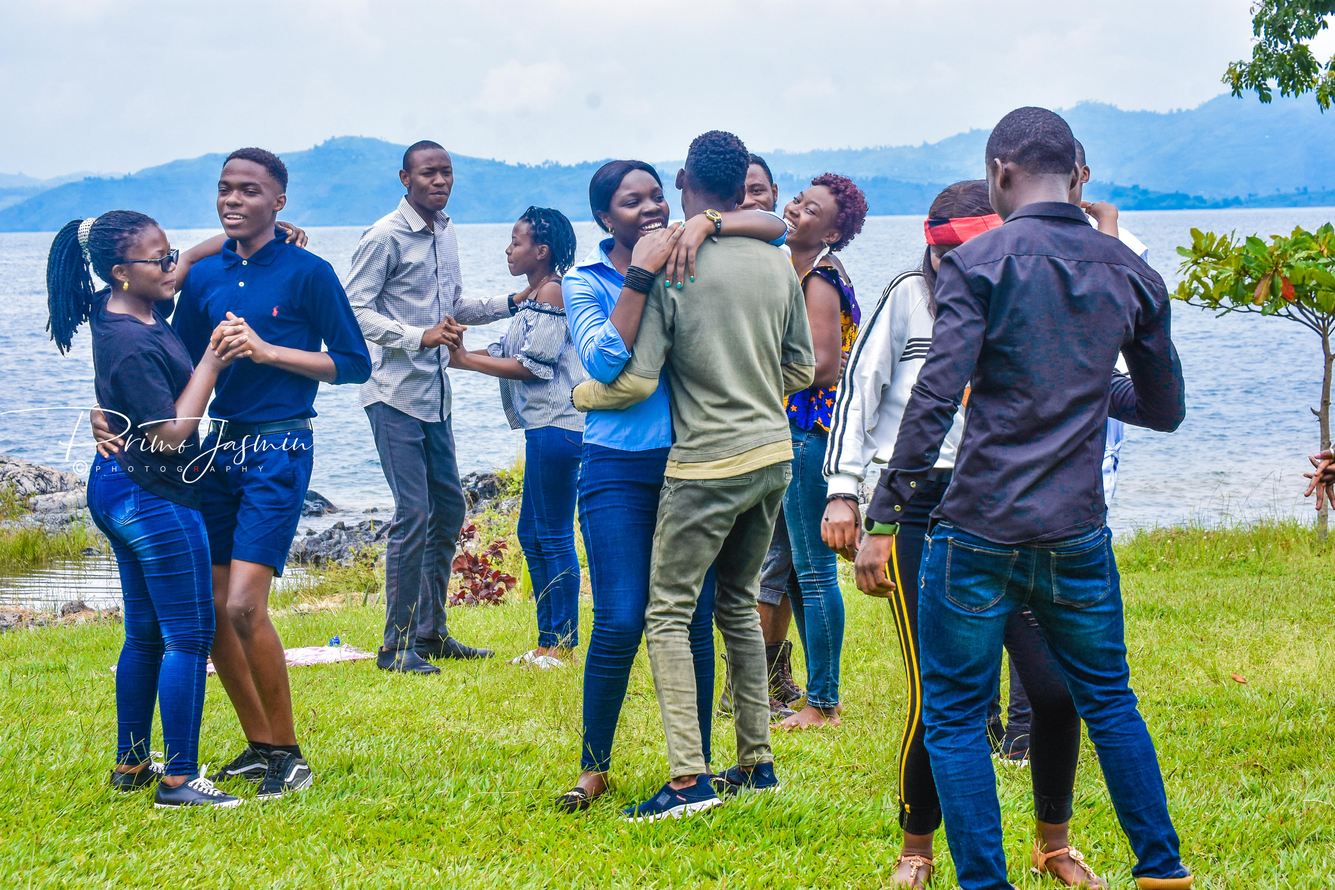
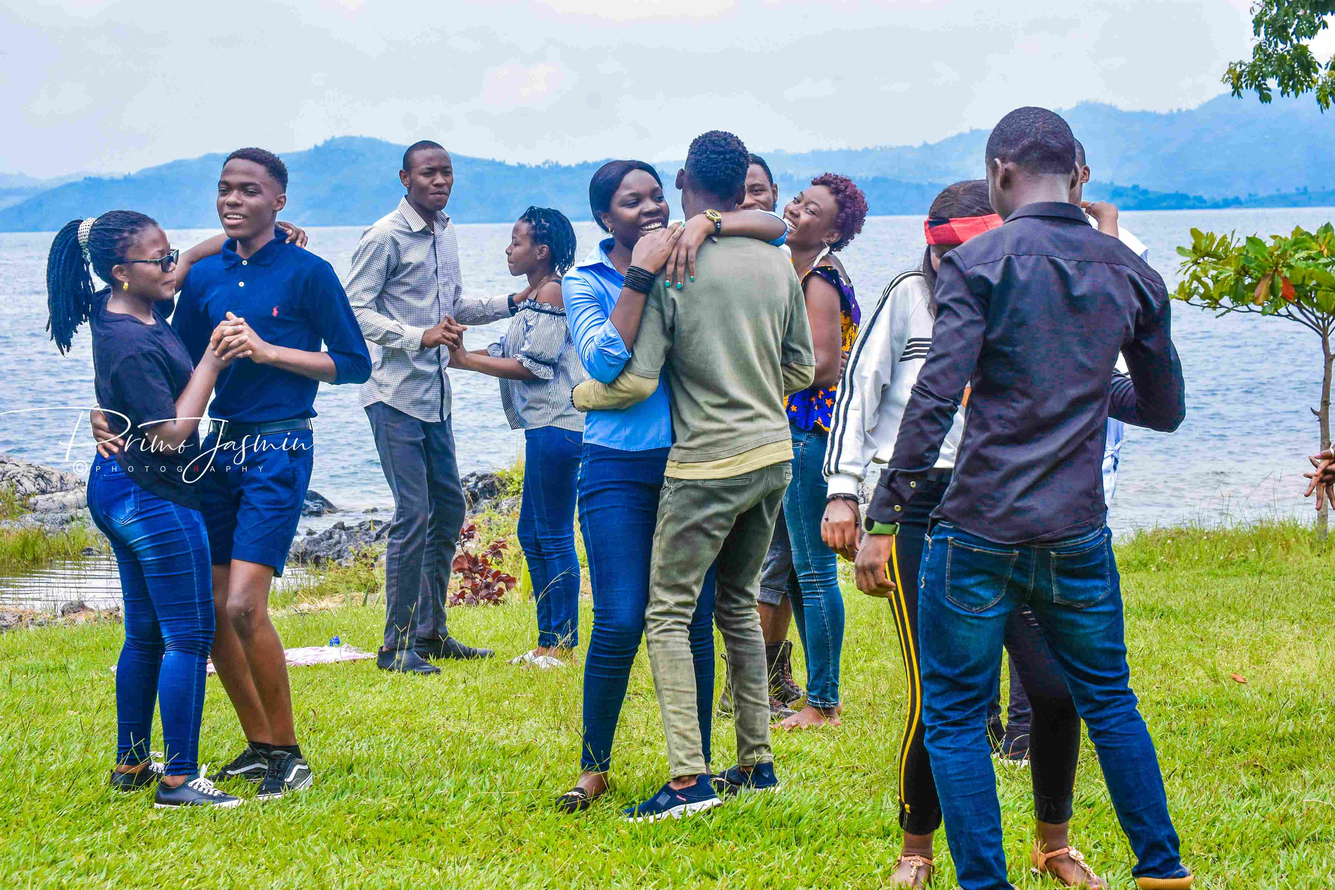
Images compression done

diff --git a/src/Components/Programs/index.js b/src/Components/Programs/index.js
@@ -9,9 +9,9 @@ import {
   DescriptionCntainer,
   ProgramsDescription,
 } from "./Styles";
-import Hadisi from "../../images/Hadisi.JPG";
-import Interprenship from "../../images/Interprenship.JPG";
-import Pambazuko from "../../images/Pambazuko.JPG";
+import Hadisi from "../../images/Hadisi.jpg";
+import Interprenship from "../../images/Interprenship.jpg";
+import Pambazuko from "../../images/Pambazuko.jpg";
 
 const Programs = () => {
   return (

diff --git a/src/Components/Apropo/index.js b/src/Components/Apropo/index.js
@@ -1,8 +1,8 @@
 import React from 'react'
 import {Content,ContentWrap,Title,Description,TeamCardWrap,TeamCard,ImgWrap,Img,Descrip} from './Styles'
-import Image1 from '../../images/1.JPG'
-import Image2 from '../../images/2.JPG'
-import Image3 from '../../images/3.JPG'
+import Image1 from '../../images/1.jpg'
+import Image2 from '../../images/2.jpg'
+import Image3 from '../../images/3.jpg'
 
 const index = () => {
     return (

diff --git a/src/Components/Headers/EditionHeader/index.js b/src/Components/Headers/EditionHeader/index.js
@@ -1,7 +1,7 @@
 import React from 'react'
 import AOS from 'aos';
 import 'aos/dist/aos.css';
-import Event1 from "../../../images/jelele.JPG"
+import Event1 from "../../../images/jelele.jpg"
 import {Header,Title,HeaderImg} from './Styles'
 
 const Head = () => {

diff --git a/src/Components/Headers/ProgramHeader/index.js b/src/Components/Headers/ProgramHeader/index.js
@@ -7,7 +7,7 @@ import {
   Title,
 } from "./Styles";
 
-import ProgramImg from "../../../images/ProgramHeader.JPG";
+import ProgramImg from "../../../images/ProgramHeader.jpg";
 
 const EventsHeader = () => {
   AOS.init({duration:2000});

diff --git a/src/Components/Headers/EventsHeader/index.js b/src/Components/Headers/EventsHeader/index.js
@@ -7,7 +7,7 @@ import {
   Title,
 } from "./Styles";
 
-import EventImg from "../../../images/EventsHeader.JPG";
+import EventImg from "../../../images/EventsHeader.jpg";
 
 const EventsHeader = () => {
   AOS.init({duration:2000});
